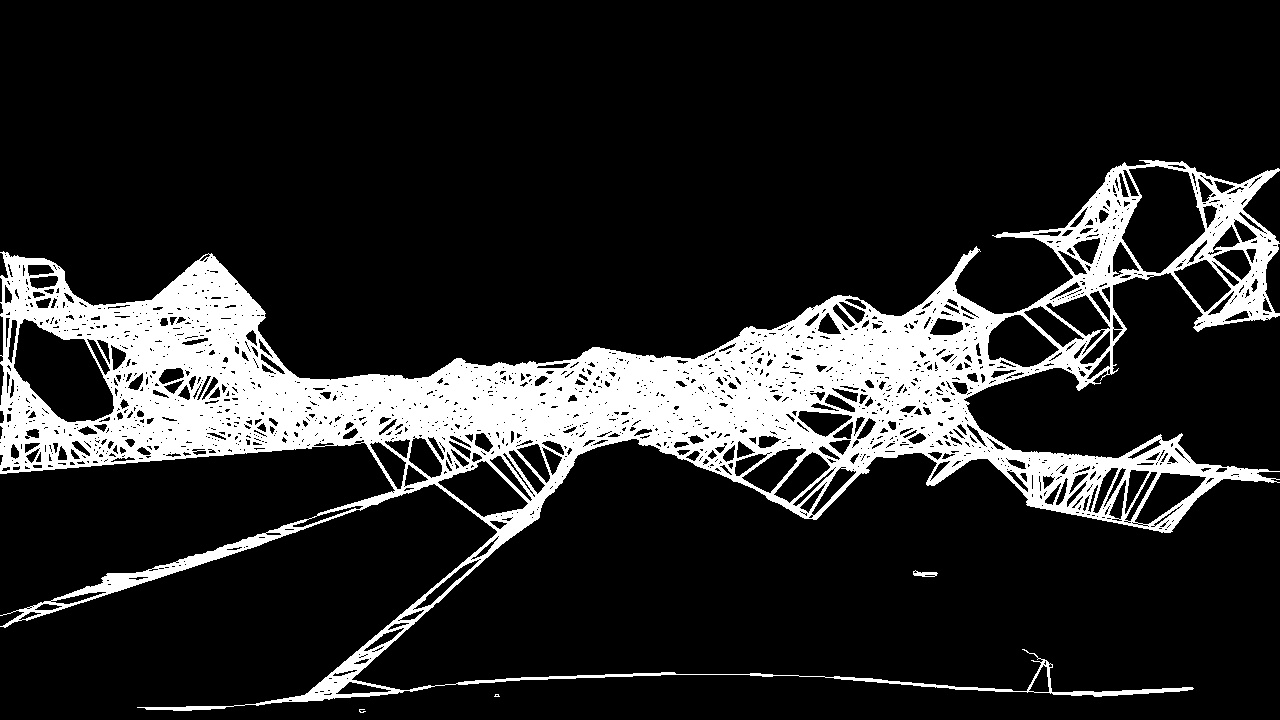
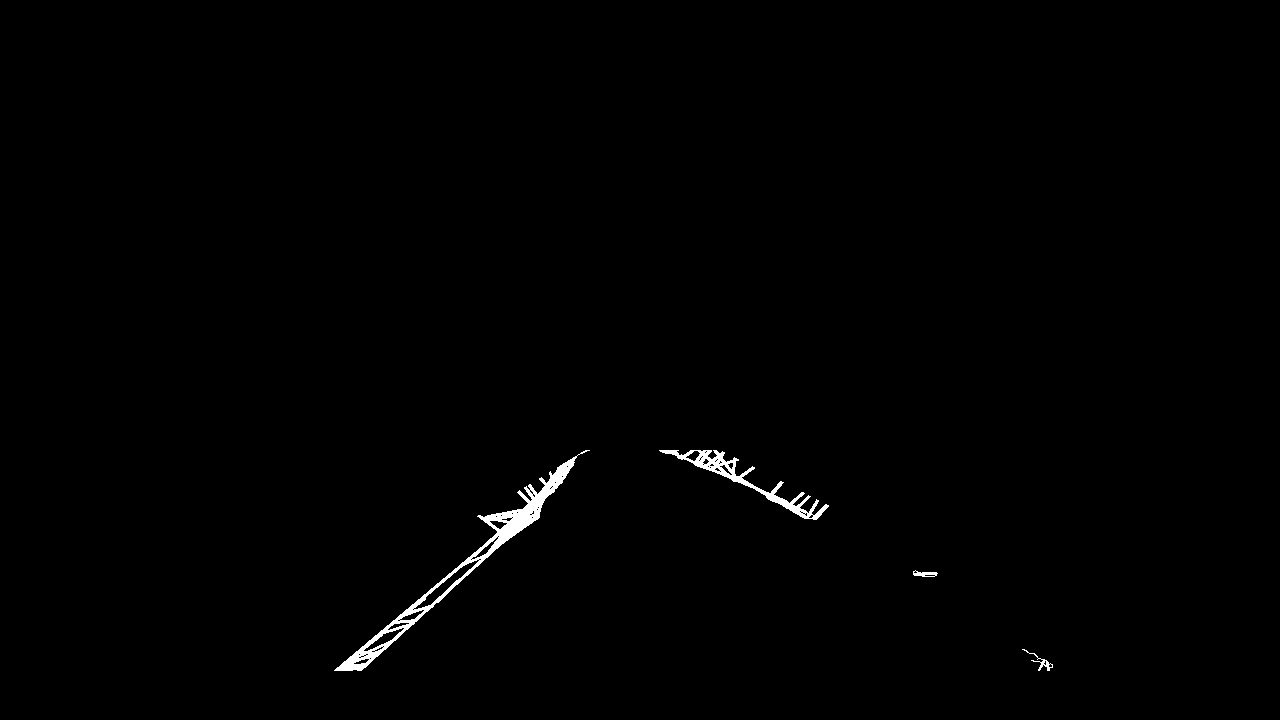
update

diff --git a/main.py b/main.py
@@ -350,9 +350,11 @@ def proc_pipeline(objpoints, imgpoints, img, save_interm_results = 0, name = '',
         out_path = os.path.join(outdir, name + '_bin' + '.jpg')
         cv2.imwrite(out_path, proc_img)
 
-    # Get Hough lines, draw lines on image, and save results.
+    # Get Hough lines, draw lines on image, trim to ROI, and save results.
     lines = hough_lines(proc_img) # returns numpy.ndarray of shape (x, 1, 4)
     proc_img = draw_lines(proc_img, lines)
+    vertices = np.array([[tl_src, tr_src, br_src, bl_src]], dtype=np.int32)
+    proc_img = region_of_interest(proc_img, vertices)
     if save_interm_results:
         cv2.imshow('img', proc_img)
         cv2.waitKey(500)

diff --git a/README.md b/README.md
@@ -24,7 +24,7 @@ and vehicle position. (Not Done)
 [image6]: ./examples/example_output.jpg "Output"
 [video1]: ./project_video.mp4 "Video"
 
-[t1p1_link]: https://github.com/blakejacquot/udacity_SDC_T1P1_LaneFinding
+[t1p1_link]: https://github.com/blakejacquot/udacity_SDC_T1P1_LaneFinding/blob/master/P1.ipynb
 
 
 ##[Rubric](https://review.udacity.com/#!/rubrics/571/view) Responses
@@ -121,6 +121,20 @@ tr = top right, bl = bottom left
 
 ####4. Describe how (and identify where in your code) you identified lane-line pixels and fit their positions with a polynomial?
 
+To identify lane-line pixels, start with a Hough transformation to ... Next crop the binary
+image with Hough lines down to the ROI specified by the perspective transformation.
+
+After Hough transformation and cropping:
+![](./output_images/ines2_drawHoughlines.jpg)
+
+After Hough transformation, cropping, and perspective transformation:
+![](./output_images/ines2_drawHoughlines.jpg)
+
+
+-Do hough transform
+-Crop to ROI
+-Fit points on left
+-Fit points on right
 
 
 
